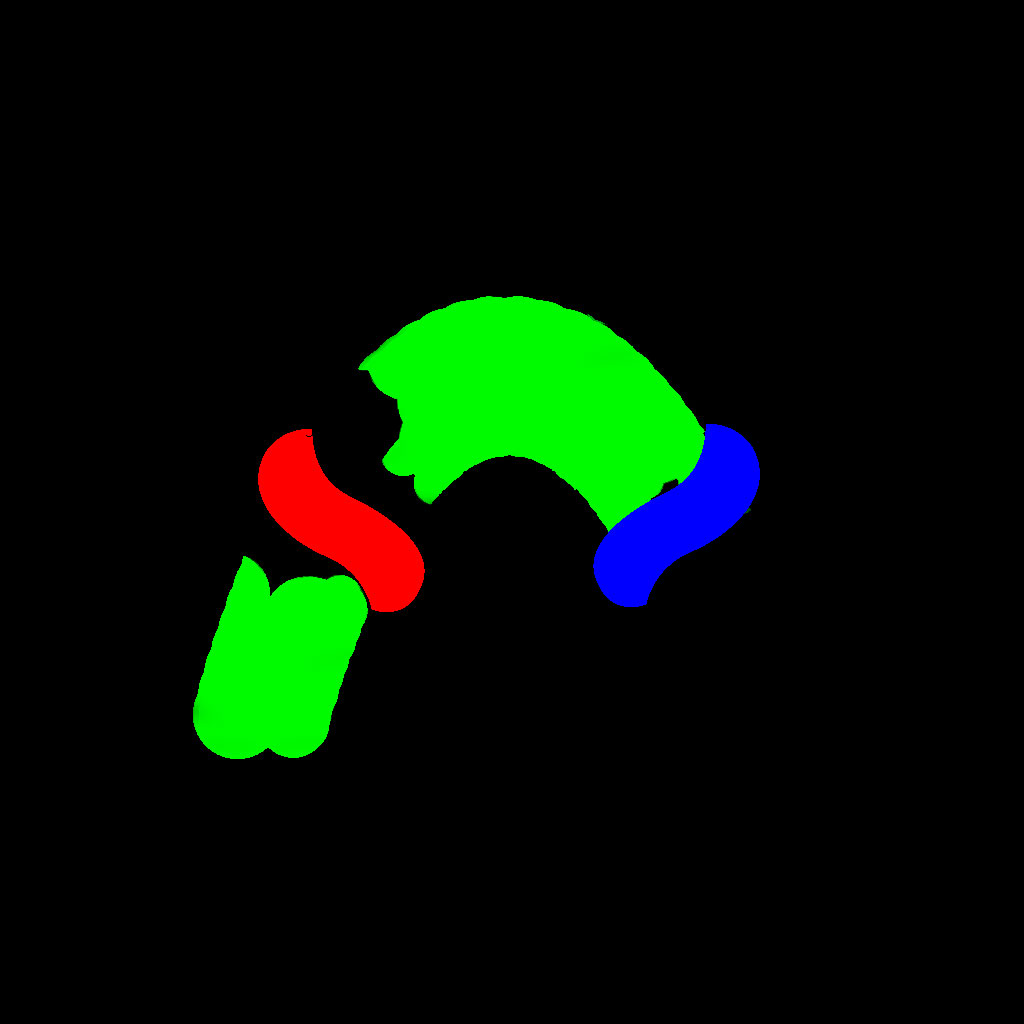
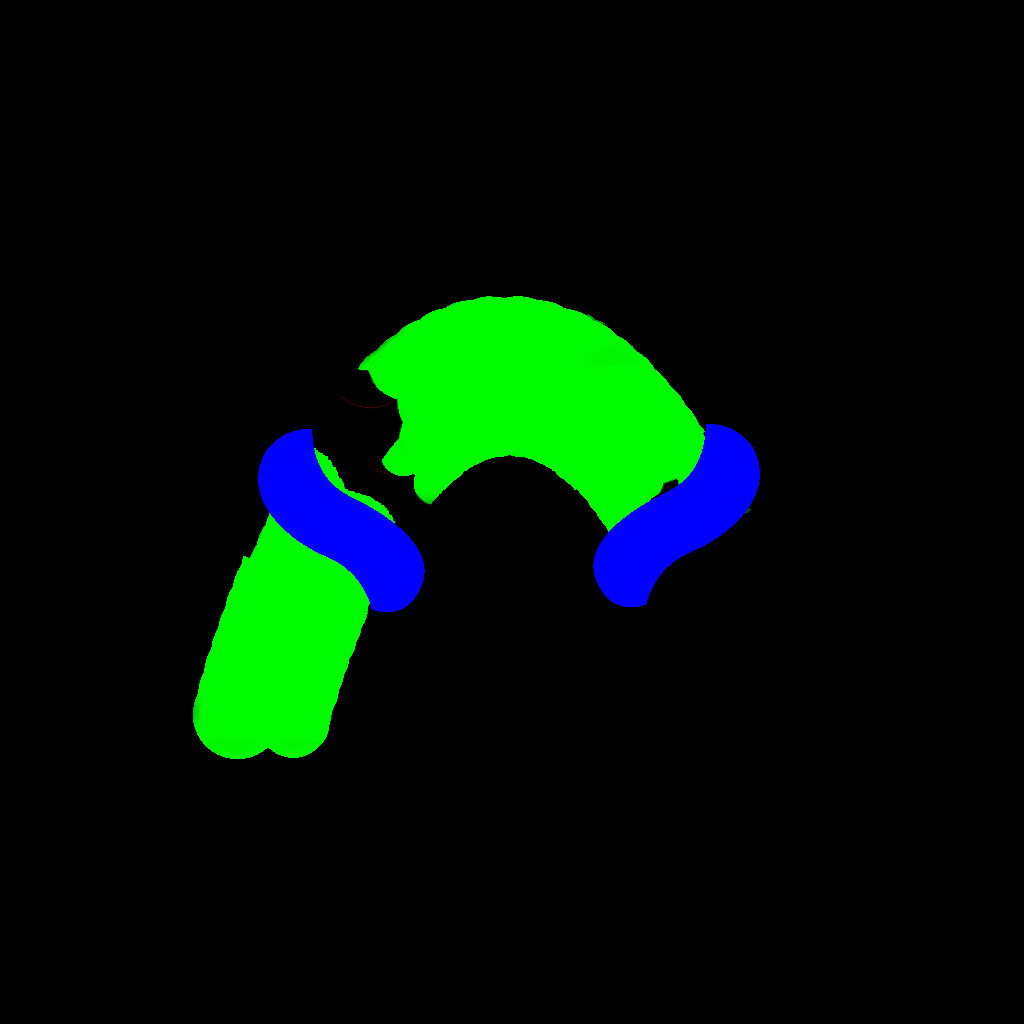
ultimos cambios realizados (no revisados)

Changed region(s): [[0.25, 0.4062, 0.4375, 0.5938]]

diff --git a/EcografiaDoppler/Assets/Scripts/version2/GraphController.cs b/EcografiaDoppler/Assets/Scripts/version2/GraphController.cs
@@ -170,41 +170,62 @@ public class GraphController : MonoBehaviour {
 				//horizontalFactor = 5f;
                 int repeticion = (65);
                 //original
-                /*int repeticion = 65;
-                if((indexScan * heartRate / (4f * incrIndexScan / 7f) % repeticion) < 9f)
+                //int repeticion = 65;
+                /*if((indexScan * heartRate / (4f * incrIndexScan / 7f) % repeticion) < 9f)
                 {
                     horizontalFactor = 20f;
                     currentValue = Mathf.Cos((indexScan * heartRate / (4f * incrIndexScan / 7f) % repeticion) * horizontalFactor * Mathf.PI / 180f + ((indexScan * heartRate / (4f * incrIndexScan / 7f) % repeticion < 8) ? 35f : 45f));// + pathology / 30f);
                     currentValue *= 1.1f * (3.5f / (heartRate + 1f));
                     currentValue += 0.45f + (heartRate - 4f) * 0.3f;
                 }*/
-                //if ((indexScan * heartRate / (4f * 7f / 7f) % repeticion) < 2.25f * heartRate)
-                //{
-                repeticion = 1000;
-                    horizontalFactor = 20f ;
-                    currentValue = Mathf.Cos((indexScan * 4f / (4f * incrIndexScan / 7f) % repeticion) * 20f * 4f / heartRate * Mathf.PI / 180f + 35f);// + pathology / 30f);
+                if ((indexScan * heartRate / (4f * incrIndexScan / 7f) % repeticion) <  heartRate * 7f / 3f - 1f /  3f)
+                {
+                    horizontalFactor = 20f;//20f ;
+                    repeticion = (int)(1.542f * Mathf.Pow(heartRate * 4f / 3f - 1 / 3f, 4) - 23.42f * Mathf.Pow(heartRate * 4f / 3f - 1 / 3f, 3) + 136f * Mathf.Pow(heartRate * 4f / 3f - 1 / 3f, 2) + -379.1f * (heartRate * 4f / 3f - 1 / 3f) + 525f);
+                    currentValue = Mathf.Cos((indexScan * 4f / (4f * incrIndexScan / 7f) % repeticion) * horizontalFactor * Mathf.PI / 180f + ((indexScan * 4f / (4f * incrIndexScan / 7f) % repeticion < 8) ? 35f : 45f));// + pathology / 30f);
                     currentValue *= 1.1f * (3.5f / (4f + 1f));
                     currentValue += 0.45f + (4f - 4f) * 0.3f;
-                //}
-                //else
-                //{
-                    /*horizontalFactor = 6f;
-                    if ((indexScan * heartRate / (4f * incrIndexScan / 7f) % repeticion) < 27f)
+                }
+                else
+                {
+                    horizontalFactor = 6f;
+                    //ORIGINAL
+                    /*if ((indexScan * heartRate / (4f * incrIndexScan / 7f) % repeticion) < 27f)
                     {
                         currentValue = Mathf.Cos((indexScan * heartRate / (4f * incrIndexScan / 7f) % repeticion) * horizontalFactor * Mathf.PI / 180f - ((indexScan * heartRate / (4f * incrIndexScan / 7f) % repeticion < 8) ? 5f : 45f));// + pathology / 30f);
+                        currentValue += 0.65f;
+                    }*/
+                    if ((indexScan * heartRate / (4f * incrIndexScan / 7f) % repeticion) < heartRate * 4.5f + 9f - (9f - heartRate * 7f / 3f - 1f / 3f))
+                    {
+                        repeticion = (int)( 1.542f * Mathf.Pow(heartRate * 4f / 3f - 1 / 3f, 4) - 23.42f * Mathf.Pow(heartRate * 4f / 3f - 1 / 3f, 3) + 136f * Mathf.Pow(heartRate * 4f / 3f - 1 / 3f, 2) + -379.1f * (heartRate * 4f / 3f - 1 / 3f) + 525f);
+                        //print(heartRate + " " + repeticion);
+                        horizontalFactor = 5.5f;//heartRate * -1.6666f + 12.6666f;
+                        currentValue = Mathf.Cos((indexScan * 4f / (4f * incrIndexScan / 7f) % repeticion) * horizontalFactor * Mathf.PI / 180f - ((indexScan * 4f / (4f * incrIndexScan / 7f) % repeticion < 8) ? 5f : 45f));// + pathology / 30f);
                         currentValue += 0.65f;
                     }
                     else
                     {
+                        //ORIGINAL
+                        /*
                         horizontalFactor = 3f;
                         if ((indexScan * heartRate / (4f * incrIndexScan / 7f) % repeticion) <= 65f)
                         {
+                            horizontalFactor = 3.5f;
                             currentValue = Mathf.Cos((indexScan * heartRate / (4f * incrIndexScan / 7f) % repeticion) * horizontalFactor * Mathf.PI / 180f - 56.5f);// + pathology / 30f);
                             currentValue += 0.4f + (heartRate - 4f) * 0.1f;
                             currentValue *= 1f * (5f / (heartRate + 1f));
+                        }*/
+
+                        if ((indexScan * heartRate / (4f * incrIndexScan / 7f) % repeticion) <= 65f)
+                        {
+                            horizontalFactor = 3f;
+                            repeticion = 65;// (int)(1.542f * Mathf.Pow(heartRate * 4f / 3f - 1 / 3f, 4) - 23.42f * Mathf.Pow(heartRate * 4f / 3f - 1 / 3f, 3) + 136f * Mathf.Pow(heartRate * 4f / 3f - 1 / 3f, 2) + -379.1f * (heartRate * 4f / 3f - 1 / 3f) + 525f);
+                            currentValue = Mathf.Cos((indexScan * heartRate / (4f * incrIndexScan / 7f) % repeticion) * horizontalFactor * Mathf.PI / 180f - 56.5f + 0.16666f * (4f - heartRate));// + pathology / 30f);
+                            currentValue += 0.2f + (heartRate - 4f) * 0.1f;//0.4f + (heartRate - 4f) * 0.1f;
+                            currentValue *= 1f * (5f / (4f + 1f));
                         }
-                    }*/
-                //}
+                    }
+                }
                 currentValue *= 0.5f;
                 //currentValue = Mathf.Cos ((indexScan * heartRate / (4f * incrIndexScan / 7f) % repeticion) * horizontalFactor * Mathf.PI / 180f - ((indexScan * heartRate / (4f * incrIndexScan / 7f) % repeticion < 8) ? 5f : 45f));// + pathology / 30f);
                 //lo parada de la grafica
@@ -220,29 +241,57 @@ public class GraphController : MonoBehaviour {
                 if (cursorController.umbilicalDraw)
                 {
                     int repeticion = 65;
-                    if ((indexScan * heartRate / (4f * incrIndexScan / 7f) % repeticion) < 9f)
+                    //ORIGINAL
+                    /*if ((indexScan * heartRate / (4f * incrIndexScan / 7f) % repeticion) < 9f)
                     {
                         horizontalFactor = 20f;
                         currentValue = Mathf.Cos((indexScan * heartRate / (4f * incrIndexScan / 7f) % repeticion) * horizontalFactor * Mathf.PI / 180f + ((indexScan * heartRate / (4f * incrIndexScan / 7f) % repeticion < 8) ? 35f : 45f));// + pathology / 30f);
                         currentValue *= 1.1f * (3.5f / (heartRate + 1f));
                         currentValue += 0.45f + (heartRate - 4f) * 0.3f;
+                    }*/
+                    if ((indexScan * heartRate / (4f * incrIndexScan / 7f) % repeticion) < heartRate * 7f / 3f - 1f / 3f)
+                    {
+                        horizontalFactor = 20f;//20f ;
+                        repeticion = (int)(1.542f * Mathf.Pow(heartRate * 4f / 3f - 1 / 3f, 4) - 23.42f * Mathf.Pow(heartRate * 4f / 3f - 1 / 3f, 3) + 136f * Mathf.Pow(heartRate * 4f / 3f - 1 / 3f, 2) + -379.1f * (heartRate * 4f / 3f - 1 / 3f) + 525f);
+                        currentValue = Mathf.Cos((indexScan * 4f / (4f * incrIndexScan / 7f) % repeticion) * horizontalFactor * Mathf.PI / 180f + ((indexScan * 4f / (4f * incrIndexScan / 7f) % repeticion < 8) ? 35f : 45f));// + pathology / 30f);
+                        currentValue *= 1.1f * (3.5f / (4f + 1f));
+                        currentValue += 0.45f + (4f - 4f) * 0.3f;
                     }
                     else
                     {
                         horizontalFactor = 6f;
-                        if ((indexScan * heartRate / (4f * incrIndexScan / 7f) % repeticion) < 27f)
+                        //ORIGINAL
+                        /*if ((indexScan * heartRate / (4f * incrIndexScan / 7f) % repeticion) < 27f)
                         {
                             currentValue = Mathf.Cos((indexScan * heartRate / (4f * incrIndexScan / 7f) % repeticion) * horizontalFactor * Mathf.PI / 180f - ((indexScan * heartRate / (4f * incrIndexScan / 7f) % repeticion < 8) ? 5f : 45f));// + pathology / 30f);
+                            currentValue += 0.65f;
+                        }*/
+                        if ((indexScan * heartRate / (4f * incrIndexScan / 7f) % repeticion) < heartRate * 4.5f + 9f - (9f - heartRate * 7f / 3f - 1f / 3f))
+                        {
+                            repeticion = (int)(1.542f * Mathf.Pow(heartRate * 4f / 3f - 1 / 3f, 4) - 23.42f * Mathf.Pow(heartRate * 4f / 3f - 1 / 3f, 3) + 136f * Mathf.Pow(heartRate * 4f / 3f - 1 / 3f, 2) + -379.1f * (heartRate * 4f / 3f - 1 / 3f) + 525f);
+                            //print(heartRate + " " + repeticion);
+                            horizontalFactor = 5.5f;//heartRate * -1.6666f + 12.6666f;
+                            currentValue = Mathf.Cos((indexScan * 4f / (4f * incrIndexScan / 7f) % repeticion) * horizontalFactor * Mathf.PI / 180f - ((indexScan * 4f / (4f * incrIndexScan / 7f) % repeticion < 8) ? 5f : 45f));// + pathology / 30f);
                             currentValue += 0.65f;
                         }
                         else
                         {
                             horizontalFactor = 3f;
+                            //ORIGINAL
+                            /*
                             if ((indexScan * heartRate / (4f * incrIndexScan / 7f) % repeticion) <= 65f)
                             {
                                 currentValue = Mathf.Cos((indexScan * heartRate / (4f * incrIndexScan / 7f) % repeticion) * horizontalFactor * Mathf.PI / 180f - 56.5f);// + pathology / 30f);
                                 currentValue += 0.4f + (heartRate - 4f) * 0.1f;
                                 currentValue *= 1f * (5f / (heartRate + 1f));
+                            }*/
+                            if ((indexScan * heartRate / (4f * incrIndexScan / 7f) % repeticion) <= 65f)
+                            {
+                                horizontalFactor = 3f;
+                                repeticion = 65;// (int)(1.542f * Mathf.Pow(heartRate * 4f / 3f - 1 / 3f, 4) - 23.42f * Mathf.Pow(heartRate * 4f / 3f - 1 / 3f, 3) + 136f * Mathf.Pow(heartRate * 4f / 3f - 1 / 3f, 2) + -379.1f * (heartRate * 4f / 3f - 1 / 3f) + 525f);
+                                currentValue = Mathf.Cos((indexScan * heartRate / (4f * incrIndexScan / 7f) % repeticion) * horizontalFactor * Mathf.PI / 180f - 56.5f + 0.16666f * (4f - heartRate));// + pathology / 30f);
+                                currentValue += 0.2f + (heartRate - 4f) * 0.1f;//0.4f + (heartRate - 4f) * 0.1f;
+                                currentValue *= 1f * (5f / (4f + 1f));
                             }
                         }
                     }
@@ -257,40 +306,78 @@ public class GraphController : MonoBehaviour {
                 else
                 {
                     int repeticion = 65;
-                    if ((indexScan * heartRate / (4f * incrIndexScan / 7f) % repeticion) < 9f)
+                    //ORIGINAL
+                    /*if ((indexScan * heartRate / (4f * incrIndexScan / 7f) % repeticion) < 9f)
                     {
                         horizontalFactor = 20f;
                         currentValue = Mathf.Cos((indexScan * heartRate / (4f * incrIndexScan / 7f) % repeticion) * horizontalFactor * Mathf.PI / 180f + ((indexScan * heartRate / (4f * incrIndexScan / 7f) % repeticion < 8) ? 35f : 45f));// + pathology / 30f);
+                        currentValue *= 1.1f;
+                        currentValue += 0.45f;
+                    }*/
+                    if ((indexScan * heartRate / (4f * incrIndexScan / 7f) % repeticion) < heartRate * 7f / 3f - 1f / 3f)
+                    {
+                        horizontalFactor = 20f;//20f ;
+                        repeticion = (int)(1.542f * Mathf.Pow(heartRate * 4f / 3f - 1 / 3f, 4) - 23.42f * Mathf.Pow(heartRate * 4f / 3f - 1 / 3f, 3) + 136f * Mathf.Pow(heartRate * 4f / 3f - 1 / 3f, 2) + -379.1f * (heartRate * 4f / 3f - 1 / 3f) + 525f);
+                        currentValue = Mathf.Cos((indexScan * 4f / (4f * incrIndexScan / 7f) % repeticion) * horizontalFactor * Mathf.PI / 180f + ((indexScan * 4f / (4f * incrIndexScan / 7f) % repeticion < 8) ? 35f : 45f));// + pathology / 30f);
                         currentValue *= 1.1f;
                         currentValue += 0.45f;
                     }
                     else
                     {
                         horizontalFactor = 9f;
-                        if ((indexScan * heartRate / (4f * incrIndexScan / 7f) % repeticion) < 34f)
+                        //ORIGINAL
+                        /*if ((indexScan * heartRate / (4f * incrIndexScan / 7f) % repeticion) < 34f)
                         {
                             currentValue = Mathf.Cos((indexScan * heartRate / (4f * incrIndexScan / 7f) % repeticion) * horizontalFactor * Mathf.PI / 180f - ((indexScan * heartRate / (4f * incrIndexScan / 7f) % repeticion < 8) ? 5f : 46f));// + pathology / 30f);
+                            currentValue *= 1f - pathology / 60f;
+                            currentValue += 0.65f;
+                        }*/
+                        if ((indexScan * heartRate / (4f * incrIndexScan / 7f) % repeticion) < heartRate * 6.5f + 9f - (9f - heartRate * 7f / 3f - 1f / 3f))
+                        {
+                            repeticion = (int)(1.542f * Mathf.Pow(heartRate * 4f / 3f - 1 / 3f, 4) - 23.42f * Mathf.Pow(heartRate * 4f / 3f - 1 / 3f, 3) + 136f * Mathf.Pow(heartRate * 4f / 3f - 1 / 3f, 2) + -379.1f * (heartRate * 4f / 3f - 1 / 3f) + 525f);
+                            //print(heartRate + " " + repeticion);
+                            //horizontalFactor = 5.5f;//heartRate * -1.6666f + 12.6666f;
+                            currentValue = Mathf.Cos((indexScan * 4f / (4f * incrIndexScan / 7f) % repeticion) * horizontalFactor * Mathf.PI / 180f - ((indexScan * 4f / (4f * incrIndexScan / 7f) % repeticion < 8) ? 5f : 46f));// + pathology / 30f);
                             currentValue *= 1f - pathology / 60f;
                             currentValue += 0.65f;
                         }
                         else
                         {
+                            //ORIGINAL
+                            /*
                             if ((indexScan * heartRate / (4f * incrIndexScan / 7f) % repeticion) < 50f)
                             {
                                 horizontalFactor = 17f;
                                 currentValue = Mathf.Cos((indexScan * heartRate / (4f * incrIndexScan / 7f) % repeticion) * horizontalFactor * Mathf.PI / 180f - ((indexScan * heartRate / (4f * incrIndexScan / 7f) % repeticion < 8) ? 5f : 50f));// + pathology / 30f);
                                 currentValue *= 0.6f - pathology / 60f;
                                 currentValue -= 0.1f;
+                            }*/
+                            if ((indexScan * heartRate / (4f * incrIndexScan / 7f) % repeticion) <= 50f)
+                            {
+                                horizontalFactor = 8f;
+                                //repeticion = (int)(1.542f * Mathf.Pow(heartRate * 4f / 3f - 1 / 3f, 4) - 23.42f * Mathf.Pow(heartRate * 4f / 3f - 1 / 3f, 3) + 136f * Mathf.Pow(heartRate * 4f / 3f - 1 / 3f, 2) + -379.1f * (heartRate * 4f / 3f - 1 / 3f) + 525f);
+                                currentValue = Mathf.Cos((indexScan * heartRate / (4f * incrIndexScan / 7f) % repeticion) * horizontalFactor * Mathf.PI / 180f - ((indexScan * heartRate / (4f * incrIndexScan / 7f) % repeticion < 8) ? 5f : 50f));// + 0.16666f * (4f - heartRate));// + pathology / 30f);
+                                currentValue *= 0.6f - pathology / 60f;
+                                currentValue -= 0.8f;
                             }
                             else
                             {
                                 horizontalFactor = 17f;
+                                //ORIGINAL
                                 if ((indexScan * heartRate / (4f * incrIndexScan / 7f) % repeticion) <= 65f)
                                 {
                                     currentValue = Mathf.Cos((indexScan * heartRate / (4f * incrIndexScan / 7f) % repeticion) * horizontalFactor * Mathf.PI / 180f - 58f);// + pathology / 30f);
                                     currentValue *= 0.5f + pathology / 15f;
                                     currentValue -= 1.0f + pathology / 10f;
                                 }
+                                /*if ((indexScan * heartRate / (4f * incrIndexScan / 7f) % repeticion) <= 65f)
+                                {
+                                    //horizontalFactor = 20f;//20f ;
+                                    //repeticion = (int)(1.542f * Mathf.Pow(heartRate * 4f / 3f - 1 / 3f, 4) - 23.42f * Mathf.Pow(heartRate * 4f / 3f - 1 / 3f, 3) + 136f * Mathf.Pow(heartRate * 4f / 3f - 1 / 3f, 2) + -379.1f * (heartRate * 4f / 3f - 1 / 3f) + 525f);
+                                    currentValue = Mathf.Cos((indexScan * 4f / (4f * incrIndexScan / 7f) % repeticion) * horizontalFactor * Mathf.PI / 180f - 58f);// + pathology / 30f);
+                                    currentValue *= 0.5f + pathology / 15f;
+                                    currentValue -= 1.0f + pathology / 10f;
+                                }*/
                             }
                         }
                     }
@@ -305,27 +392,53 @@ public class GraphController : MonoBehaviour {
             if (SceneManager.GetActiveScene().name == "EcografiaCerebral")
             {
                 int repeticion = 65;
-                if ((indexScan * heartRate / (4f * incrIndexScan / 7f) % repeticion) < 9f)
+                //ORIGINAL
+                /*if ((indexScan * heartRate / (4f * incrIndexScan / 7f) % repeticion) < 9f)
                 {
                     horizontalFactor = 20f;
                     currentValue = Mathf.Cos((indexScan * heartRate / (4f * incrIndexScan / 7f) % repeticion) * horizontalFactor * Mathf.PI / 180f + ((indexScan * heartRate / (4f * incrIndexScan / 7f) % repeticion < 8) ? 35f : 45f));// + pathology / 30f);
                     currentValue *= 1.1f;
                     currentValue += 0.45f;
+                }*/
+                if ((indexScan * heartRate / (4f * incrIndexScan / 7f) % repeticion) < heartRate * 7f / 3f - 1f / 3f)
+                {
+                    horizontalFactor = 20f;//20f ;
+                    repeticion = (int)(1.542f * Mathf.Pow(heartRate * 4f / 3f - 1 / 3f, 4) - 23.42f * Mathf.Pow(heartRate * 4f / 3f - 1 / 3f, 3) + 136f * Mathf.Pow(heartRate * 4f / 3f - 1 / 3f, 2) + -379.1f * (heartRate * 4f / 3f - 1 / 3f) + 525f);
+                    currentValue = Mathf.Cos((indexScan * 4f / (4f * incrIndexScan / 7f) % repeticion) * horizontalFactor * Mathf.PI / 180f + ((indexScan * 4f / (4f * incrIndexScan / 7f) % repeticion < 8) ? 35f : 45f));// + pathology / 30f);
+                    currentValue *= 1.1f;
+                    currentValue += 0.45f;
                 }
                 else
                 {
-                    horizontalFactor = 6f;
+                    //ORIGINAL
+                    /*horizontalFactor = 6f;
                     if ((indexScan * heartRate / (4f * incrIndexScan / 7f) % repeticion) < 27f)
                     {
                         currentValue = Mathf.Cos((indexScan * heartRate / (4f * incrIndexScan / 7f) % repeticion) * horizontalFactor * Mathf.PI / 180f - ((indexScan * heartRate / (4f * incrIndexScan / 7f) % repeticion < 8) ? 5f : 45f));// + pathology / 30f);
                         currentValue += 0.65f;
+                    }*/
+                    if ((indexScan * heartRate / (4f * incrIndexScan / 7f) % repeticion) < heartRate * 4.5f + 9f - (9f - heartRate * 7f / 3f - 1f / 3f))
+                    {
+                        repeticion = (int)(1.542f * Mathf.Pow(heartRate * 4f / 3f - 1 / 3f, 4) - 23.42f * Mathf.Pow(heartRate * 4f / 3f - 1 / 3f, 3) + 136f * Mathf.Pow(heartRate * 4f / 3f - 1 / 3f, 2) + -379.1f * (heartRate * 4f / 3f - 1 / 3f) + 525f);
+                        //print(heartRate + " " + repeticion);
+                        horizontalFactor = 6f;//heartRate * -1.6666f + 12.6666f;
+                        currentValue = Mathf.Cos((indexScan * 4f / (4f * incrIndexScan / 7f) % repeticion) * horizontalFactor * Mathf.PI / 180f - ((indexScan * 4f / (4f * incrIndexScan / 7f) % repeticion < 8) ? 5f : 45f));// + pathology / 30f);
+                        currentValue += 0.65f;
                     }
                     else
                     {
-                        horizontalFactor = 3f;
+                        //ORIGINAL
+                        /*horizontalFactor = 3f;
                         if ((indexScan * heartRate / (4f * incrIndexScan / 7f) % repeticion) <= 65f)
                         {
                             currentValue = Mathf.Cos((indexScan * heartRate / (4f * incrIndexScan / 7f) % repeticion) * horizontalFactor * Mathf.PI / 180f - 56.5f);// + pathology / 30f);
+                            currentValue += 0.4f;
+                        }*/
+                        if ((indexScan * heartRate / (4f * incrIndexScan / 7f) % repeticion) <= 65f)
+                        {
+                            horizontalFactor = 2.5f;
+                            repeticion = 65;// (int)(1.542f * Mathf.Pow(heartRate * 4f / 3f - 1 / 3f, 4) - 23.42f * Mathf.Pow(heartRate * 4f / 3f - 1 / 3f, 3) + 136f * Mathf.Pow(heartRate * 4f / 3f - 1 / 3f, 2) + -379.1f * (heartRate * 4f / 3f - 1 / 3f) + 525f);
+                            currentValue = Mathf.Cos((indexScan * heartRate / (4f * incrIndexScan / 7f) % repeticion) * horizontalFactor * Mathf.PI / 180f - 56.5f + 0.35f * (4f - heartRate));// + pathology / 30f);
                             currentValue += 0.4f;
                         }
                     }
@@ -342,19 +455,38 @@ public class GraphController : MonoBehaviour {
                 if (cursorController.umbilicalDraw)
                 {
                     int repeticion = 65;
-                    if ((indexScan * heartRate / (4f * incrIndexScan / 7f) % repeticion) < 9f)
+                    //ORIGINAL
+                    /*if ((indexScan * heartRate / (4f * incrIndexScan / 7f) % repeticion) < 9f)
                     {
                         horizontalFactor = 20f + pathology / 9f;
                         currentValue = Mathf.Cos((indexScan * heartRate / (4f * incrIndexScan / 7f) % repeticion) * horizontalFactor * Mathf.PI / 180f + ((indexScan * heartRate / (4f * incrIndexScan / 7f) % repeticion < 8) ? 35f : 45f));// + pathology / 30f);
                         currentValue *= 1.1f;
                         currentValue += 0.45f + pathology / 100f;
+                    }*/
+                    if ((indexScan * heartRate / (4f * incrIndexScan / 7f) % repeticion) < heartRate / 1.765f * 4f * 7f / 3f - 1f / 3f)
+                    {
+                        horizontalFactor = 20f + pathology / 9f;
+                        repeticion = (int)(1.542f * Mathf.Pow(heartRate / 1.765f * 4f * 4f / 3f - 1 / 3f, 4) - 23.42f * Mathf.Pow(heartRate / 1.765f * 4f * 4f / 3f - 1 / 3f, 3) + 136f * Mathf.Pow(heartRate / 1.765f * 4f * 4f / 3f - 1 / 3f, 2) + -379.1f * (heartRate / 1.765f * 4f * 4f / 3f - 1 / 3f) + 525f);
+                        currentValue = Mathf.Cos((indexScan * 1.765f / (4f * incrIndexScan / 7f) % repeticion) * horizontalFactor * Mathf.PI / 180f + ((indexScan * 1.765f / (4f * incrIndexScan / 7f) % repeticion < 8) ? 35f : 45f));// + pathology / 30f);
+                        currentValue *= 1.1f;
+                        currentValue += 0.45f + pathology / 100f;
                     }
                     else
                     {
-                        horizontalFactor = 6f + pathology / 7.5f;
+                        //ORIGINAL
+                        
+                        /*horizontalFactor = 6f + pathology / 7.5f;
                         if ((indexScan * heartRate / (4f * incrIndexScan / 7f) % repeticion) < 27f - pathology / 4f)
                         {
                             currentValue = Mathf.Cos((indexScan * heartRate / (4f * incrIndexScan / 7f) % repeticion) * horizontalFactor * Mathf.PI / 180f - ((indexScan * heartRate / (4f * incrIndexScan / 7f) % repeticion < 8) ? 5f : 45f));// + pathology / 30f);
+                            currentValue += 0.65f;
+                        }*/
+                        if ((indexScan * heartRate / (4f * incrIndexScan / 7f) % repeticion) < heartRate / 1.765f * 4f * 4.5f + 9f - (9f - heartRate / 1.765f * 4f * 7f / 3f - 1f / 3f) - pathology * 5.454545f)
+                        {
+                            repeticion = 146;// (int)(1.542f * Mathf.Pow(heartRate / 1.765f * 4f * 4f / 3f - 1 / 3f, 4) - 23.42f * Mathf.Pow(heartRate / 1.765f * 4f * 4f / 3f - 1 / 3f, 3) + 136f * Mathf.Pow(heartRate / 1.765f * 4f * 4f / 3f - 1 / 3f, 2) + -379.1f * (heartRate / 1.765f * 4f * 4f / 3f - 1 / 3f) + 525f);
+                            //print(heartRate + " " + pathology);
+                            horizontalFactor = heartRate * - 2.958f + 8.2218f + pathology / 7.5f;// 6f + pathology / 7.5f;
+                            currentValue = Mathf.Cos((indexScan * heartRate / 1.765f * 4f / (4f * incrIndexScan / 7f) % repeticion) * horizontalFactor * Mathf.PI / 180f - ((indexScan * heartRate / 1.765f * 4f / (4f * incrIndexScan / 7f) % repeticion < 8) ? 5f : 45f) - 0.3f);// + pathology / 30f);
                             currentValue += 0.65f;
                         }
                         else
@@ -374,13 +506,22 @@ public class GraphController : MonoBehaviour {
                                 case 26: var1 = -18f; var2 = 30f; var3 = 18f; break;
                                 case 30: var1 = -20f; var2 = 31f; var3 = 26f; break;
                             }
-                            horizontalFactor = 3f - var1 / 1.87f;
-                            if ((indexScan * heartRate / (4f * incrIndexScan / 7f) % repeticion) <= 65f)
+                            horizontalFactor = 3f - var1 / 1.87f - pathology * 0.1f;
+                            //ORIGINAL
+                            /*if ((indexScan * heartRate / (4f * incrIndexScan / 7f) % repeticion) <= 65f)
                             {
                                 currentValue = Mathf.Cos((indexScan * heartRate / (4f * incrIndexScan / 7f) % repeticion) * horizontalFactor * Mathf.PI / 180f - 56.5f);// + pathology / 30f);
                                 currentValue *= 1f - var2 / 27f;
                                 currentValue += 0.4f - var3 / 50f;
 
+                            }*/
+                            if ((indexScan * heartRate / (4f * incrIndexScan / 7f) % repeticion) <= 65f)
+                            {
+                                //horizontalFactor = 2.5f;
+                                //repeticion = 65;// (int)(1.542f * Mathf.Pow(heartRate * 4f / 3f - 1 / 3f, 4) - 23.42f * Mathf.Pow(heartRate * 4f / 3f - 1 / 3f, 3) + 136f * Mathf.Pow(heartRate * 4f / 3f - 1 / 3f, 2) + -379.1f * (heartRate * 4f / 3f - 1 / 3f) + 525f);
+                                currentValue = Mathf.Cos((indexScan * heartRate / (4f * incrIndexScan / 7f) % repeticion) * horizontalFactor * Mathf.PI / 180f - 56.5f + 0.35f * (4f - heartRate) - 0.5f + pathology * 0.05f);// + pathology / 30f);
+                                currentValue *= 1f - var2 / 27f;
+                                currentValue += 0.4f - var3 / 50f;
                             }
                         }
                     }
